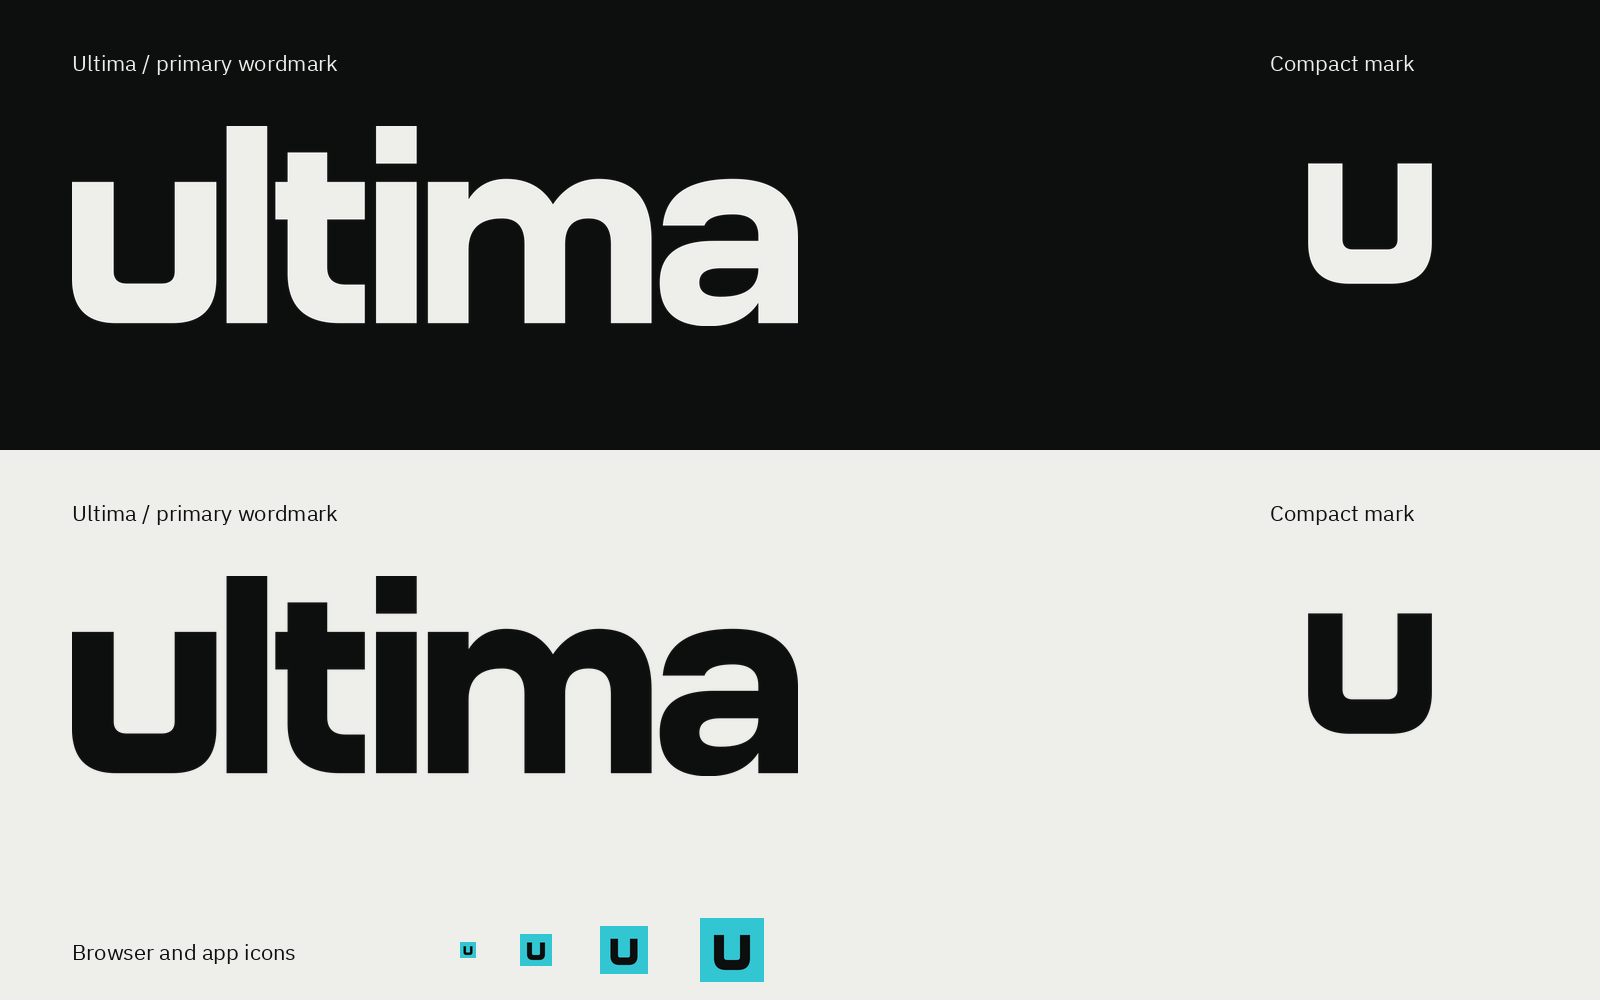
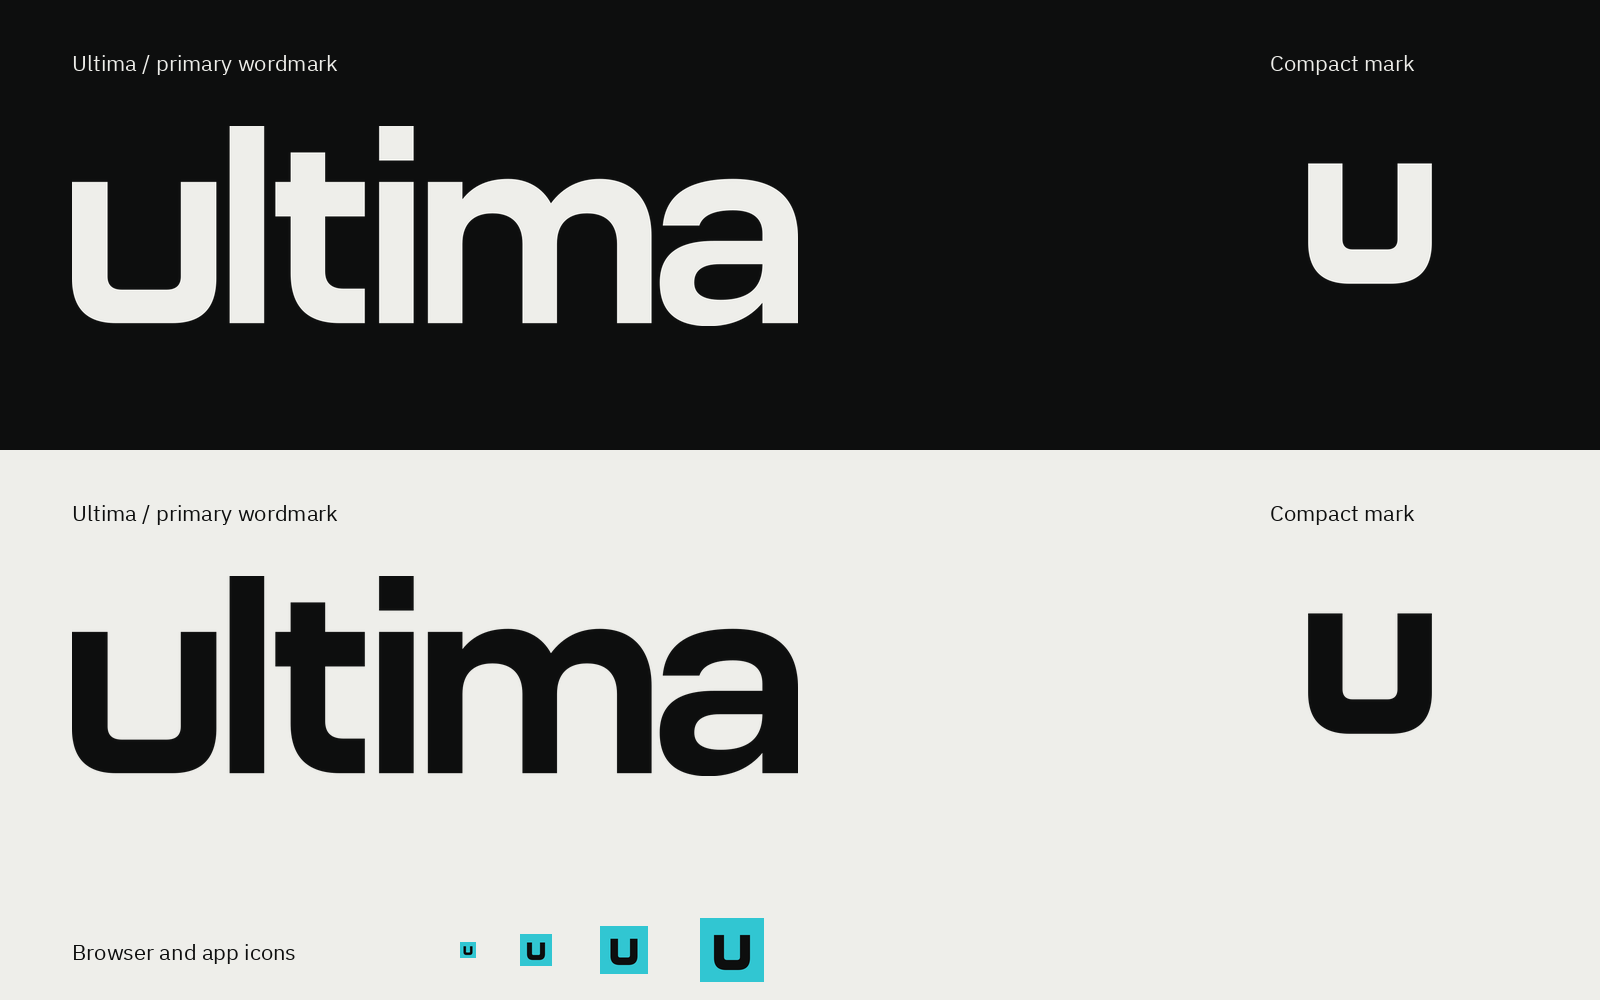
Lighten the Compact wordmark and balance the m
Reduce the lettering weight at navigation size and match the two m counters for #719.

Note: the three block-anatomy.test.tsx iframe timeouts were already failing before these changes.

diff --git a/scripts/build-brand.py b/scripts/build-brand.py
@@ -54,12 +54,12 @@ def save(name, source, width=None):
 
 
 WORD_PATHS = (
-    'M0 55H41V143Q41 155 54 155H88Q101 155 101 143V55H142V150Q142 194 99 194H43Q0 194 0 150Z',
-    'M152 0H192V194H152Z',
-    'M212 26H251V55H288V92H251V139Q251 156 269 156H288V194H263Q212 194 212 145V92H200V55H212Z',
-    'M299 0H339V37H299ZM299 55H339V194H299Z',
-    'M350 55H390V72Q403 52 427 52Q458 52 473 77Q490 52 518 52Q570 52 570 112V194H530V116Q530 91 508 91Q485 91 485 116V194H445V116Q445 91 423 91Q390 91 390 122V194H350Z',
-    'M581 98Q585 52 650 52Q714 52 714 110V194H675V174Q660 197 626 197Q578 197 578 154Q578 113 631 113H675V108Q675 87 650 87Q626 87 622 98ZM675 140H638Q617 140 617 154Q617 168 638 168Q675 168 675 140Z',
+    'M0 55H35V148Q35 161 49 161H93Q107 161 107 148V55H142V150Q142 194 99 194H43Q0 194 0 150Z',
+    'M155 0H189V194H155Z',
+    'M215 26H249V55H288V89H249V143Q249 160 267 160H288V194H263Q215 194 215 145V89H200V55H215Z',
+    'M302 0H336V34H302ZM302 55H336V194H302Z',
+    'M350 55H384V72C395 58 410 52 429 52C448 52 463 61 471 76C483 60 499 52 519 52C551 52 570 72 570 108V194H536V116C536 97 526 86 506.5 86C487 86 477 97 477 116V194H443V116C443 97 433 86 413.5 86C394 86 384 97 384 116V194H350Z',
+    'M581 98Q585 52 650 52Q714 52 714 110V194H679V174Q660 197 626 197Q578 197 578 154Q578 113 631 113H679V106Q679 83 650 83Q622 83 617 98ZM679 136H637Q612 136 612 154Q612 171 638 171Q679 171 679 136Z',
 )
 word = ''.join(f'<path fill-rule="evenodd" d="{path}"/>' for path in WORD_PATHS)
 word_width, word_height = 714, 197
